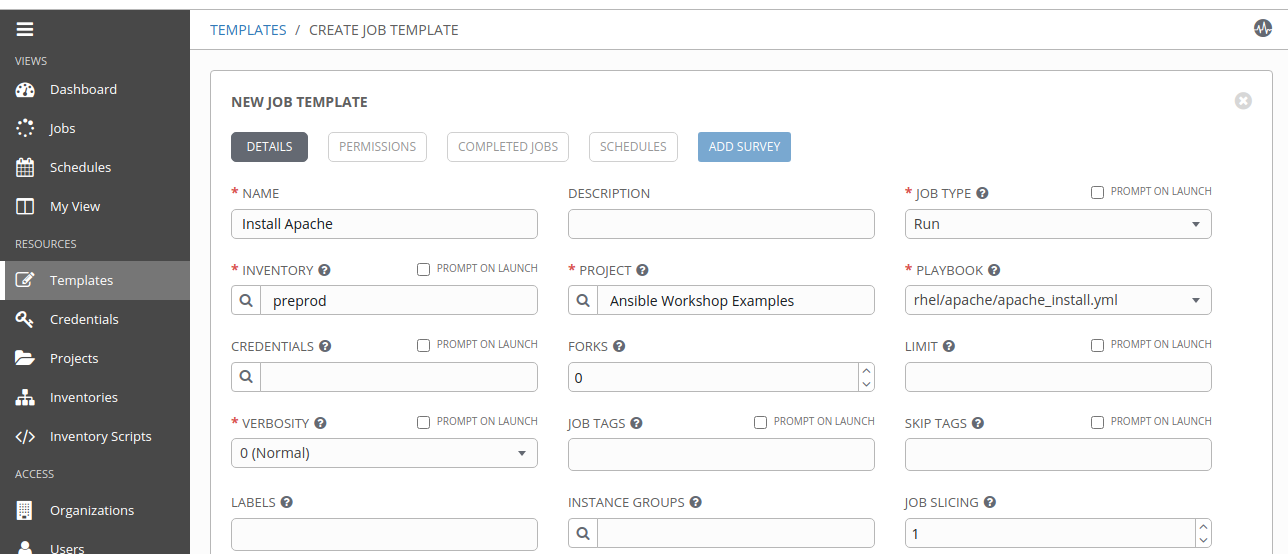
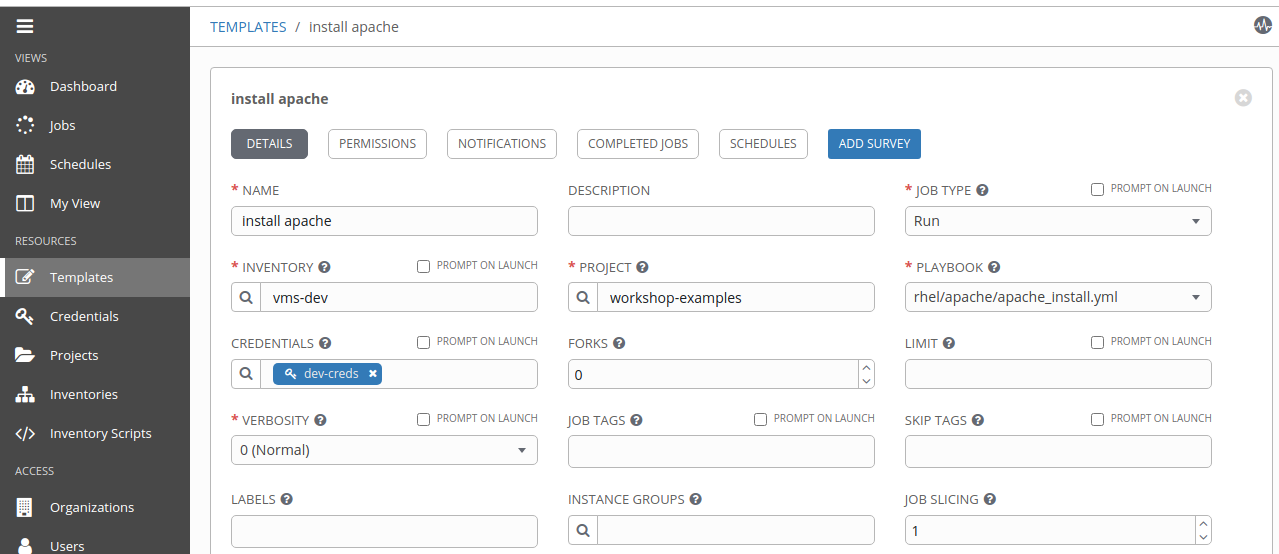
commit

diff --git a/_site/404.html b/_site/404.html
@@ -221,6 +221,8 @@
                 <a href="/docs/devops/ansible/galaxy/" class="nav-list-link">Ansible Galaxy - Collections</a>
               </li><li class="nav-list-item">
                 <a href="/docs/devops/ansible/tower/" class="nav-list-link">Ansible Tower</a>
+              </li><li class="nav-list-item">
+                <a href="/docs/devops/ansible/yaml-syntax/" class="nav-list-link">Yaml Syntax</a>
               </li></ul></li><li class="nav-list-item"><a href="/docs/devops/jenkins/" class="nav-list-link">Jenkins</a></li><li class="nav-list-item"><a href="/docs/devops/git/" class="nav-list-link">Git</a></li><li class="nav-list-item"><a href="/docs/devops/jmeter/" class="nav-list-link">Jmeter</a></li><li class="nav-list-item"><a href="/docs/devops/nagios/" class="nav-list-link">Nagios</a></li><li class="nav-list-item"><a href="/docs/devops/appdynamics/" class="nav-list-link">AppDynamics</a></li><li class="nav-list-item"><a href="/docs/devops/docker/" class="nav-list-link">Docker</a></li><li class="nav-list-item"><a href="/docs/devops/vagrant/" class="nav-list-link">Vagrant</a></li><li class="nav-list-item"><a href="/docs/devops/kubernetes/" class="nav-list-link">Kubernetes</a></li></ul></li><li class="nav-list-item"><button class="nav-list-expander btn-reset" aria-label="toggle items in Linux category" aria-pressed="false">
       <svg viewBox="0 0 24 24" aria-hidden="true"><use xlink:href="#svg-arrow-right"></use></svg>
     </button><a href="/docs/linux/" class="nav-list-link">Linux</a><ul class="nav-list"><li class="nav-list-item"><a href="/docs/linux/linux/" class="nav-list-link">Linux</a></li><li class="nav-list-item"><a href="/docs/linux/scripting-shell/" class="nav-list-link">Scripting Shell</a></li><li class="nav-list-item"><a href="/docs/linux/apt-yum-pkg/" class="nav-list-link">APT - Yum - PKG</a></li><li class="nav-list-item"><a href="/docs/linux/memory-cpu/" class="nav-list-link">CPU - Memory</a></li><li class="nav-list-item"><a href="/docs/linux/fs-disk/" class="nav-list-link">File Systems - Disks</a></li><li class="nav-list-item"><a href="/docs/linux/networking/" class="nav-list-link">Networking</a></li><li class="nav-list-item"><a href="/docs/linux/systemd-sysv/" class="nav-list-link">Systemd - sysV</a></li><li class="nav-list-item"><a href="/docs/linux/dns/" class="nav-list-link">DNS</a></li><li class="nav-list-item"><a href="/docs/linux/dhcp/" class="nav-list-link">DHCP</a></li><li class="nav-list-item"><a href="/docs/linux/hardware/" class="nav-list-link">Hardware</a></li><li class="nav-list-item"><a href="/docs/linux/kvm/" class="nav-list-link">KVM</a></li></ul></li><li class="nav-list-item"><button class="nav-list-expander btn-reset" aria-label="toggle items in Data Base category" aria-pressed="false">
@@ -239,7 +241,7 @@
       <svg viewBox="0 0 24 24" aria-hidden="true"><use xlink:href="#svg-arrow-right"></use></svg>
     </button><a href="/docs/production/" class="nav-list-link">Production</a><ul class="nav-list"><li class="nav-list-item"><a href="/docs/production/production/" class="nav-list-link">Production</a></li><li class="nav-list-item"><a href="/docs/production/tools/" class="nav-list-link">Tools</a></li></ul></li><li class="nav-list-item"><button class="nav-list-expander btn-reset" aria-label="toggle items in Programming category" aria-pressed="false">
       <svg viewBox="0 0 24 24" aria-hidden="true"><use xlink:href="#svg-arrow-right"></use></svg>
-    </button><a href="/docs/programming/" class="nav-list-link">Programming</a><ul class="nav-list"><li class="nav-list-item"><a href="/docs/programming/java-dev/" class="nav-list-link">Java</a></li><li class="nav-list-item"><a href="/docs/programming/java-ee-dev/" class="nav-list-link">Java EE</a></li><li class="nav-list-item"><a href="/docs/programming/javascript/" class="nav-list-link">Javascript</a></li><li class="nav-list-item"><a href="/docs/programming/react-js/" class="nav-list-link">React.js</a></li><li class="nav-list-item"><a href="/docs/programming/spring-boot/" class="nav-list-link">Spring Boot</a></li></ul></li><li class="nav-list-item"><button class="nav-list-expander btn-reset" aria-label="toggle items in Customization category" aria-pressed="false">
+    </button><a href="/docs/programming/" class="nav-list-link">Programming</a><ul class="nav-list"><li class="nav-list-item"><a href="/docs/programming/java-dev/" class="nav-list-link">Java</a></li><li class="nav-list-item"><a href="/docs/programming/java-ee-dev/" class="nav-list-link">Java EE</a></li><li class="nav-list-item"><a href="/docs/programming/javascript/" class="nav-list-link">Javascript</a></li><li class="nav-list-item"><a href="/docs/programming/react-js/" class="nav-list-link">React.js</a></li><li class="nav-list-item"><a href="/docs/programming/spring-boot/" class="nav-list-link">Spring Boot</a></li><li class="nav-list-item"><a href="/docs/programming/python/" class="nav-list-link">Python</a></li></ul></li><li class="nav-list-item"><button class="nav-list-expander btn-reset" aria-label="toggle items in Customization category" aria-pressed="false">
       <svg viewBox="0 0 24 24" aria-hidden="true"><use xlink:href="#svg-arrow-right"></use></svg>
     </button><a href="/docs/customization/" class="nav-list-link">Customization</a><ul class="nav-list"><li class="nav-list-item"><a href="/docs/customization/configuration/" class="nav-list-link">Configuration</a></li><li class="nav-list-item"><a href="/docs/customization/navigation-structure/" class="nav-list-link">Navigation Structure</a></li><li class="nav-list-item"><a href="/docs/customization/customization/" class="nav-list-link">Customization</a></li><li class="nav-list-item"><a href="/docs/customization/search/" class="nav-list-link">Search</a></li><li class="nav-list-item"><button class="nav-list-expander btn-reset" aria-label="toggle items in Layout category" aria-pressed="false">
             <svg viewBox="0 0 24 24" aria-hidden="true"><use xlink:href="#svg-arrow-right"></use></svg>

diff --git a/_site/index.html b/_site/index.html
@@ -247,6 +247,8 @@
                 <a href="/docs/devops/ansible/galaxy/" class="nav-list-link">Ansible Galaxy - Collections</a>
               </li><li class="nav-list-item">
                 <a href="/docs/devops/ansible/tower/" class="nav-list-link">Ansible Tower</a>
+              </li><li class="nav-list-item">
+                <a href="/docs/devops/ansible/yaml-syntax/" class="nav-list-link">Yaml Syntax</a>
               </li></ul></li><li class="nav-list-item"><a href="/docs/devops/jenkins/" class="nav-list-link">Jenkins</a></li><li class="nav-list-item"><a href="/docs/devops/git/" class="nav-list-link">Git</a></li><li class="nav-list-item"><a href="/docs/devops/jmeter/" class="nav-list-link">Jmeter</a></li><li class="nav-list-item"><a href="/docs/devops/nagios/" class="nav-list-link">Nagios</a></li><li class="nav-list-item"><a href="/docs/devops/appdynamics/" class="nav-list-link">AppDynamics</a></li><li class="nav-list-item"><a href="/docs/devops/docker/" class="nav-list-link">Docker</a></li><li class="nav-list-item"><a href="/docs/devops/vagrant/" class="nav-list-link">Vagrant</a></li><li class="nav-list-item"><a href="/docs/devops/kubernetes/" class="nav-list-link">Kubernetes</a></li></ul></li><li class="nav-list-item"><button class="nav-list-expander btn-reset" aria-label="toggle items in Linux category" aria-pressed="false">
       <svg viewBox="0 0 24 24" aria-hidden="true"><use xlink:href="#svg-arrow-right"></use></svg>
     </button><a href="/docs/linux/" class="nav-list-link">Linux</a><ul class="nav-list"><li class="nav-list-item"><a href="/docs/linux/linux/" class="nav-list-link">Linux</a></li><li class="nav-list-item"><a href="/docs/linux/scripting-shell/" class="nav-list-link">Scripting Shell</a></li><li class="nav-list-item"><a href="/docs/linux/apt-yum-pkg/" class="nav-list-link">APT - Yum - PKG</a></li><li class="nav-list-item"><a href="/docs/linux/memory-cpu/" class="nav-list-link">CPU - Memory</a></li><li class="nav-list-item"><a href="/docs/linux/fs-disk/" class="nav-list-link">File Systems - Disks</a></li><li class="nav-list-item"><a href="/docs/linux/networking/" class="nav-list-link">Networking</a></li><li class="nav-list-item"><a href="/docs/linux/systemd-sysv/" class="nav-list-link">Systemd - sysV</a></li><li class="nav-list-item"><a href="/docs/linux/dns/" class="nav-list-link">DNS</a></li><li class="nav-list-item"><a href="/docs/linux/dhcp/" class="nav-list-link">DHCP</a></li><li class="nav-list-item"><a href="/docs/linux/hardware/" class="nav-list-link">Hardware</a></li><li class="nav-list-item"><a href="/docs/linux/kvm/" class="nav-list-link">KVM</a></li></ul></li><li class="nav-list-item"><button class="nav-list-expander btn-reset" aria-label="toggle items in Data Base category" aria-pressed="false">
@@ -265,7 +267,7 @@
       <svg viewBox="0 0 24 24" aria-hidden="true"><use xlink:href="#svg-arrow-right"></use></svg>
     </button><a href="/docs/production/" class="nav-list-link">Production</a><ul class="nav-list"><li class="nav-list-item"><a href="/docs/production/production/" class="nav-list-link">Production</a></li><li class="nav-list-item"><a href="/docs/production/tools/" class="nav-list-link">Tools</a></li></ul></li><li class="nav-list-item"><button class="nav-list-expander btn-reset" aria-label="toggle items in Programming category" aria-pressed="false">
       <svg viewBox="0 0 24 24" aria-hidden="true"><use xlink:href="#svg-arrow-right"></use></svg>
-    </button><a href="/docs/programming/" class="nav-list-link">Programming</a><ul class="nav-list"><li class="nav-list-item"><a href="/docs/programming/java-dev/" class="nav-list-link">Java</a></li><li class="nav-list-item"><a href="/docs/programming/java-ee-dev/" class="nav-list-link">Java EE</a></li><li class="nav-list-item"><a href="/docs/programming/javascript/" class="nav-list-link">Javascript</a></li><li class="nav-list-item"><a href="/docs/programming/react-js/" class="nav-list-link">React.js</a></li><li class="nav-list-item"><a href="/docs/programming/spring-boot/" class="nav-list-link">Spring Boot</a></li></ul></li><li class="nav-list-item"><button class="nav-list-expander btn-reset" aria-label="toggle items in Customization category" aria-pressed="false">
+    </button><a href="/docs/programming/" class="nav-list-link">Programming</a><ul class="nav-list"><li class="nav-list-item"><a href="/docs/programming/java-dev/" class="nav-list-link">Java</a></li><li class="nav-list-item"><a href="/docs/programming/java-ee-dev/" class="nav-list-link">Java EE</a></li><li class="nav-list-item"><a href="/docs/programming/javascript/" class="nav-list-link">Javascript</a></li><li class="nav-list-item"><a href="/docs/programming/react-js/" class="nav-list-link">React.js</a></li><li class="nav-list-item"><a href="/docs/programming/spring-boot/" class="nav-list-link">Spring Boot</a></li><li class="nav-list-item"><a href="/docs/programming/python/" class="nav-list-link">Python</a></li></ul></li><li class="nav-list-item"><button class="nav-list-expander btn-reset" aria-label="toggle items in Customization category" aria-pressed="false">
       <svg viewBox="0 0 24 24" aria-hidden="true"><use xlink:href="#svg-arrow-right"></use></svg>
     </button><a href="/docs/customization/" class="nav-list-link">Customization</a><ul class="nav-list"><li class="nav-list-item"><a href="/docs/customization/configuration/" class="nav-list-link">Configuration</a></li><li class="nav-list-item"><a href="/docs/customization/navigation-structure/" class="nav-list-link">Navigation Structure</a></li><li class="nav-list-item"><a href="/docs/customization/customization/" class="nav-list-link">Customization</a></li><li class="nav-list-item"><a href="/docs/customization/search/" class="nav-list-link">Search</a></li><li class="nav-list-item"><button class="nav-list-expander btn-reset" aria-label="toggle items in Layout category" aria-pressed="false">
             <svg viewBox="0 0 24 24" aria-hidden="true"><use xlink:href="#svg-arrow-right"></use></svg>

diff --git a/docs/devops/ansible/tower.md b/docs/devops/ansible/tower.md
@@ -14,7 +14,7 @@ nav_order: 5
 ### Concepts
 - **Project**: collections of ansible playbooks. they can reside localy on the tower server, or on vesion control supported by tower(eg. git).
 
-- **Inventory**: collection of hosts against wich jobs may be launched. it's the same as traditional ansible inventory.
+- **Inventory**: An Inventory is a collection of hosts against which jobs may be launched, the same as an Ansible inventory file. 
 
 - **Credentials**: used by tower to authenticate when launching jobs against machines, to import projects from version control servers,
 
@@ -26,6 +26,8 @@ nav_order: 5
 See This [Tuto](https://redhatgov.io/workshops/ansible_automation)
 
 ### Inventories
+1. Create a Group : web. In your playbook you put `hosts: web`
+2. Create Hosts.
 ![to](/docs/images/ansible-tower-inventory-1.png)
 ![to](/docs/images/ansible-tower-inventory-2.png)
 
@@ -33,7 +35,14 @@ See This [Tuto](https://redhatgov.io/workshops/ansible_automation)
 ### Credentials
 - CREDENTIAL TYPE: Click on the magnifying glass, pick Machine. 
 - PRIVILEGE ESCALATION METHOD: sudo
+
+Differents methods can be used:
+- user/password:
+- SSH Private Key. Use the **~/.ssh/id_rsa** of the tower machine. However, tower machine must be able to connect to remote machine without password, see **ssh-copy-id**.
+
 ![to](/docs/images/ansible-tower-credentials.png)
+OR
+![to](/docs/images/ansible-tower-credentials-sshkey.png)
 
 ### Create a Project
 - SCM URL: https://github.com/ansible/workshop-examples.git
@@ -42,7 +51,8 @@ See This [Tuto](https://redhatgov.io/workshops/ansible_automation)
 ### Create a Job Template and Run a Job
 - CREATE JOB TEMPLATE
   - Name: Install Apache
-  - INVENTORY: preprod
+  - INVENTORY: vms-dev
+  - CREDENTIALS: dev-creds
   - PROJECT: Ansible Workshop Examples
   - PLAYBOOK: apache_install.yml
 ![to](/docs/images/ansible-tower-template.png)

diff --git a/docs/devops/ansible/yaml-syntax.md b/docs/devops/ansible/yaml-syntax.md
@@ -1,0 +1,96 @@
+---
+layout: default
+title: Yaml Syntax
+parent:  Ansible
+grand_parent: DevOps
+nav_order: 15
+---
+
+### List
+~~~yaml
+---
+- Car
+- Train
+- Moto
+~~~
+
+
+### Dictionary
+A dictionary is represented in a simple key: value form (the colon must be followed by a space):
+~~~yaml
+---
+casablance:
+  country: morocco
+  population: 3.359.818
+  constructed: 1756
+  postal_code: 20000-20200
+~~~
+
+
+### Data Structures 
+mix of list and dictionnaries
+~~~yaml
+---
+- casablance:
+    country: morocco
+    population: 3.359.818
+    constructed: 1756
+    postal_code: 20000-20200
+
+- ElJadida:
+    country: morocco
+    population: 220.181
+    constructed: 16th century
+    postal_code: 240x0
+~~~
+
+Dictionaries and lists can also be represented in an abbreviated form if you really want to:
+{% raw %}
+~~~yaml
+
+---
+file:  path={{ __logs_dir }} state=directory mode=0755
+
+martin: {name: Martin D'vloper, job: Developer, skill: Elite}
+
+fruits: ['Apple', 'Orange', 'Strawberry', 'Mango']
+
+~~~
+{% endraw %}
+
+
+### Multiple Lines Values
+Values can span multiple lines using `|` or `>`
+~~~yaml
+---
+# An employee record
+name: Ali Ben
+job: Ingeneer
+employed: True
+languages:
+  perl: Elite
+  python: Elite
+  pascal: Lame
+education: |
+  4 GCSEs
+  3 A-Levels
+  BSc in the Internet of Things
+~~~
+
+### Gotchas
+To be able to put special caracters(`:`, `{}`, `|` etc) in a value, you can surrount with with `'` or `"`
+~~~yaml
+---
+# Error
+url: http://example.com
+
+# Correct
+url: 'http://example.com'
+
+~~~
+
+
+
+### List
+~~~yaml
+~~~

diff --git a/docs/programming/python.md b/docs/programming/python.md
@@ -1,0 +1,52 @@
+---
+layout: default
+title: Python
+parent: Programming
+nav_order: 10
+---
+### Lists
+~~~py
+animals = ["lion", "vache", "mouton", "souris"]
+for animal in animals:
+  if animal == 'lion': 
+    print(f"- The {animal} is the king!")
+  else:
+    print(f"- {animal} --->")
+~~~
+
+### Dictionary
+Dictionary syntax: `dict_var = {key1 : value1, key2 : value2, …..}`
+
+~~~py
+employee1 = {'name': 'Hossein', 'email': 'hosseil@gmail.com'}
+
+print("Employee:", employee1['name'])
+~~~
+
+### Create a Module
+a module is file with `.py` extension, containing python definitions and statements. the module name is same as file name.
+
+Create a Module `greeting.py`:
+~~~py
+def sayHello(name):
+	print ("Hello", name)
+
+class Person:
+
+	def __init__ (self, name):
+		self.name = name
+	
+	def salute (self):
+		print ("Salutation", self.name, "!")
+~~~
+
+Use the `greeting` module in `testModule.py`:
+~~~py
+import greeting
+
+greeting.sayHello("Marcello")
+
+person = greeting.Person("Gonzalo")
+
+person.salute()
+~~~

diff --git a/docs/middleware/websphere/installation-manager.md b/docs/middleware/websphere/installation-manager.md
@@ -95,6 +95,16 @@ the repository was created on the staging machine via the Packaging Utility tool
 ### Working in Silent mode
 To use silent mode, you must create a **response file** through Installation Manager or  by hand.
 
+### Uninstall IM itself
+To unistall Installation manager Or Packaging Utility:
+~~~sh
+./imcl listInstalledPackages
+
+./imcl uninstall com.ibm.cic.packagingUtility_1.9.2006.20230925_1406
+
+./imcl uninstall com.ibm.cic.agent_1.9.2006.20230925_1323
+~~~
+
 
 ### Docs
 

diff --git a/docs/devops/ansible/ansible.md b/docs/devops/ansible/ansible.md
@@ -64,6 +64,8 @@ vars:
 ~~~
 variables can be refered by "{{var name}}"
 
+[How to pass extra variables to an Ansible playbook](https://www.redhat.com/sysadmin/extra-variables-ansible-playbook)
+
 ### Modules
 - **shell**: run shell commands.
 - **group**: create a unix group.

diff --git a/docs/linux/memory-cpu.md b/docs/linux/memory-cpu.md
@@ -5,6 +5,9 @@ parent: Linux
 nav_order: 2
 ---
 
+### vmstat 
+Reference: <a>https://access.redhat.com/solutions/1160343</a>
+
 
 ### Extend Swap
 [Reference] 
